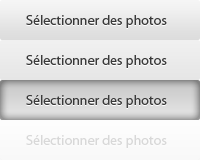
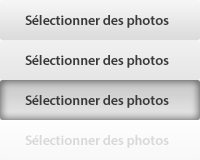
Added lang images

diff --git a/js/page.js b/js/page.js
@@ -104,7 +104,7 @@
 											file_queue_limit		: 1,
 											flash_url				: '/js/swfupload/swfupload.swf',
 											button_placeholder_id	: 'button-upload-cover',
-											button_image_url		: '/js/swfupload/button/button-upload-cover.png',
+											button_image_url		: '/js/swfupload/button/'+document.getElementById("button_upcover").innerHTML,
 											button_width			: 200,
 											button_height			: 40,
 											button_cursor			: SWFUpload.CURSOR.HAND,
@@ -245,7 +245,7 @@
 											file_queue_limit : 1,
 											flash_url : '/js/swfupload/swfupload.swf',
 											button_placeholder_id : 'button-upload-avatar',
-											button_image_url : '/js/swfupload/button/button-upload-cover.png',
+											button_image_url : '/js/swfupload/button/'+document.getElementById("button_upcover").innerHTML,
 											button_width : 200,
 											button_height : 40,
 											button_cursor : SWFUpload.CURSOR.HAND,

diff --git a/js/photo.js b/js/photo.js
@@ -76,7 +76,7 @@
 											file_queue_limit : 10,
 											flash_url : '/js/swfupload/swfupload.swf',
 											button_placeholder_id : 'button-upload-photo',
-											button_image_url : '/js/swfupload/button/button-upload-photo.png',
+											button_image_url : '/js/swfupload/button/'+document.getElementById("button_photo").innerHTML,
 											button_width : 200,
 											button_height : 40,
 											button_cursor : SWFUpload.CURSOR.HAND,

diff --git a/js/sound.js b/js/sound.js
@@ -172,7 +172,7 @@
 									file_queue_limit : 10,
 									flash_url : '/js/swfupload/swfupload.swf',
 									button_placeholder_id : 'button-upload-tracks',
-									button_image_url : '/js/swfupload/button/button-upload-track.png',
+									button_image_url : '/js/swfupload/button/'+document.getElementById("button_track").innerHTML,
 									button_width : 200,
 									button_height : 40,
 									button_cursor : SWFUpload.CURSOR.HAND,

diff --git a/application/views/_footer.php b/application/views/_footer.php
@@ -117,6 +117,10 @@
 			}
 		}
 		?>
+        <div id="button_video" style="display:none"><?php echo 'button-upload-video'.$rowname.'.png'; ?></div>
+        <div id="button_track" style="display:none"><?php echo 'button-upload-track'.$rowname.'.png'; ?></div>
+        <div id="button_photo" style="display:none"><?php echo 'button-upload-photo'.$rowname.'.png'; ?></div>
+        <div id="button_upcover" style="display:none"><?php echo 'button-upload-cover'.$rowname.'.png'; ?></div>
         <div id="datepicker_lang" style="display:none"><?php echo $datepicker_lang ?></div>
         <script src="<?=site_url('js/functions.js')?>"></script>
 		<script src="<?=site_url('js/chosen/chosen.jquery.min.js')?>"></script>
